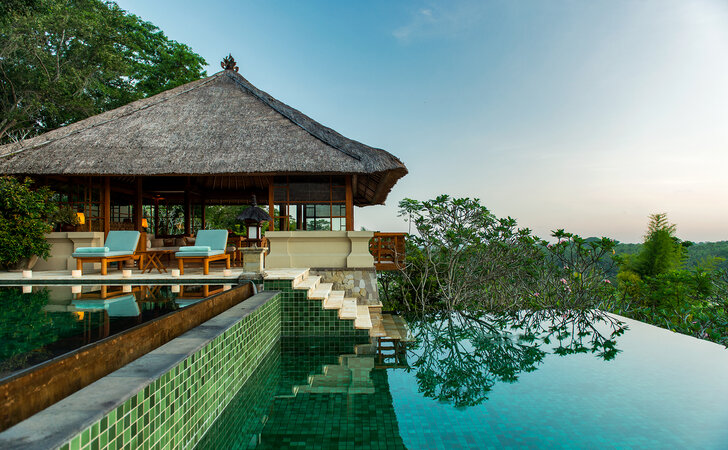
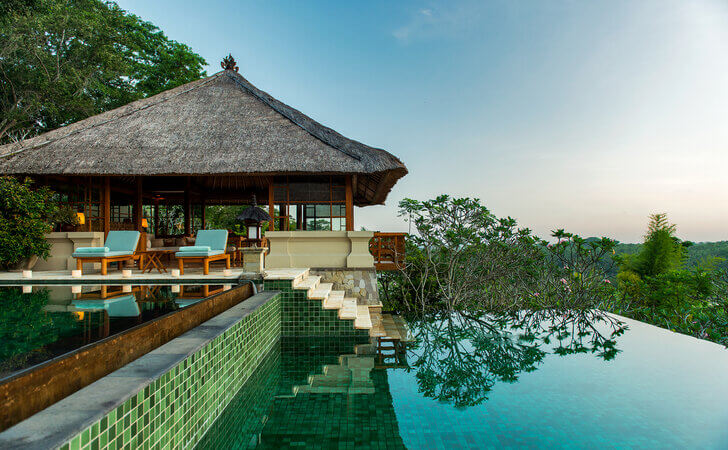
image optimization

diff --git a/index.html b/index.html
@@ -26,7 +26,7 @@
           <button class="search__button"><img src="img/svg/search.svg" alt="icon: search" class="search__icon"></button>
         </form>
         <a href="#" class="user navbar__user navbar__user_mobile_hidden">
-          <img src="img/user-avatar.jpeg" alt="Avatar: Nathan" class="user__avatar">
+          <img src="img/user-avatar.jpg" alt="Avatar: Nathan" class="user__avatar">
           <span class="user__name">Nathan</span>
         </a>
         <!-- /.user -->
@@ -187,7 +187,7 @@
       <h2 class="packages-title">Other Packages</h2>
       <div class="packages-wrapper">
         <div class="trip-card trip-card__active">
-          <img src="img/other-package/blue-havan.jpeg" alt="Hotel: Blue Haven"
+          <img src="img/other-package/blue-havan.jpg" alt="Hotel: Blue Haven"
             class="trip-card__image trip-card__image-active">
           <div class="trip-card__block trip-card__block-active">
             <div class="trip-card__info">
@@ -231,7 +231,7 @@
           <!-- /.trip-card__block -->
         </div>
         <div class="trip-card">
-          <img src="img/other-package/belle-marie.jpeg" alt="Hotel: Belle-Marie" class="trip-card__image">
+          <img src="img/other-package/belle-marie.jpg" alt="Hotel: Belle-Marie" class="trip-card__image">
           <div class="trip-card__block">
             <div class="trip-card__info">
               <h3 class="trip-card__title">LUX* Belle Mare</h3>
@@ -263,7 +263,7 @@
         </div>
         <!-- /.trip-card -->
         <div class="trip-card">
-          <img src="img/other-package/white-palace.jpeg" alt="Hotel: White Palace" class="trip-card__image">
+          <img src="img/other-package/white-palace.jpg" alt="Hotel: White Palace" class="trip-card__image">
           <div class="trip-card__block">
             <div class="trip-card__info">
               <h3 class="trip-card__title">White Palace</h3>
@@ -295,7 +295,7 @@
         </div>
         <!-- /.trip-card -->
         <div class="trip-card">
-          <img src="img/other-package/luxure-palace.jpeg" alt="Hotel: Luxury Place" class="trip-card__image">
+          <img src="img/other-package/luxure-palace.jpg" alt="Hotel: Luxury Place" class="trip-card__image">
           <div class="trip-card__block">
             <div class="trip-card__info">
               <h3 class="trip-card__title">Luxury Place</h3>
@@ -327,7 +327,7 @@
         </div>
         <!-- /.trip-card -->
         <div class="trip-card">
-          <img src="img/other-package/five-stars.jpeg" alt="Hotel: Hotel Five Star" class="trip-card__image">
+          <img src="img/other-package/five-stars.jpg" alt="Hotel: Hotel Five Star" class="trip-card__image">
           <div class="trip-card__block">
             <div class="trip-card__info">
               <h3 class="trip-card__title">Hotel Five Star</h3>
@@ -364,7 +364,7 @@
     <!-- /.container -->
   </section>
   <!-- /.packages -->
-  <section class="newsletter" data-parallax="scroll" data-image-src="img/newsletter-bg.jpeg">
+  <section class="newsletter" data-parallax="scroll" data-image-src="img/newsletter-bg.jpg">
     <div class="newsletter-wrapper">
       <h2 class="newsletter-title">
         subscribe to our
@@ -389,7 +389,7 @@
           <div class="swiper-slide">
             <div class="reviews-slider__item">
               <div class="reviews-slider__profile">
-                <img src="img/reviews/avatar-1.jpeg" alt="Photo: Megan Fox" class="reviews-slider__avatar">
+                <img src="img/reviews/avatar-1.jpg" alt="Photo: Megan Fox" class="reviews-slider__avatar">
                 <h3 class="reviews-slider__username">Megan Fox</h3>
                 <span class="reviews-slider__date">Stayed 18 Nov, 2019</span>
                 <div class="reviews-slider__rating">
@@ -417,7 +417,7 @@
           <div class="swiper-slide">
             <div class="reviews-slider__item">
               <div class="reviews-slider__profile">
-                <img src="img/reviews/avatar-2.jpeg" alt="Photo: Kate Lockley" class="reviews-slider__avatar">
+                <img src="img/reviews/avatar-2.jpg" alt="Photo: Kate Lockley" class="reviews-slider__avatar">
                 <h3 class="reviews-slider__username">Kate Lockley</h3>
                 <span class="reviews-slider__date">Stayed 12 Sep, 2019</span>
                 <div class="reviews-slider__rating">
@@ -445,7 +445,7 @@
           <div class="swiper-slide">
             <div class="reviews-slider__item">
               <div class="reviews-slider__profile">
-                <img src="img/reviews/avatar-3.jpeg" alt="Photo: Akina Kawauchi" class="reviews-slider__avatar">
+                <img src="img/reviews/avatar-3.jpg" alt="Photo: Akina Kawauchi" class="reviews-slider__avatar">
                 <h3 class="reviews-slider__username">Akina Kawauchi</h3>
                 <span class="reviews-slider__date">Stayed 28 Jun, 2019</span>
                 <div class="reviews-slider__rating">
@@ -471,7 +471,7 @@
           <div class="swiper-slide">
             <div class="reviews-slider__item">
               <div class="reviews-slider__profile">
-                <img src="img/reviews/avatar-4.jpeg" alt="Photo: Joe Bronze" class="reviews-slider__avatar">
+                <img src="img/reviews/avatar-4.jpg" alt="Photo: Joe Bronze" class="reviews-slider__avatar">
                 <h3 class="reviews-slider__username">Joe Bronze</h3>
                 <span class="reviews-slider__date">Stayed 03 Feb, 2019</span>
                 <div class="reviews-slider__rating">
@@ -498,7 +498,7 @@
           <div class="swiper-slide">
             <div class="reviews-slider__item">
               <div class="reviews-slider__profile">
-                <img src="img/reviews/avatar-5.jpeg" alt="Photo: Maggie Lichter" class="reviews-slider__avatar">
+                <img src="img/reviews/avatar-5.jpg" alt="Photo: Maggie Lichter" class="reviews-slider__avatar">
                 <h3 class="reviews-slider__username">Maggie Lichter</h3>
                 <span class="reviews-slider__date">Stayed 15 Dec, 2018</span>
                 <div class="reviews-slider__rating">
@@ -538,7 +538,7 @@
       <h2 class="activities__title">Other Activities</h2>
       <div class="activities-wrapper">
         <div class="card" data-aos="fade-up" data-aos-duration="300">
-          <img src="img/activities/activities-1.jpeg" alt="The curious corner
+          <img src="img/activities/activities-1.jpg" alt="The curious corner
             of chamarel" class="card__image">
           <h3 class="card__title">The curious corner
             of&nbsp;chamarel</h3>
@@ -548,7 +548,7 @@
         </div>
         <!-- /.card -->
         <div class="card" data-aos="fade-up" data-aos-duration="500">
-          <img src="img/activities/activities-2.jpeg" alt="Gymkhana club golf
+          <img src="img/activities/activities-2.jpg" alt="Gymkhana club golf
             course" class="card__image">
           <h3 class="card__title">Gymkhana club golf
             course</h3>
@@ -558,7 +558,7 @@
         </div>
         <!-- /.card -->
         <div class="card" data-aos="fade-up" data-aos-duration="700">
-          <img src="img/activities/activities-3.jpeg" alt="Tamarind falls hiking
+          <img src="img/activities/activities-3.jpg" alt="Tamarind falls hiking
             trip - full day" class="card__image">
           <h3 class="card__title">Tamarind falls hiking
             trip&nbsp;- full day</h3>
@@ -568,7 +568,7 @@
         </div>
         <!-- /.card -->
         <div class="card" data-aos="fade-up" data-aos-duration="900">
-          <img src="img/activities/activities-4.jpeg" alt="The blue marine discovery
+          <img src="img/activities/activities-4.jpg" alt="The blue marine discovery
             quest" class="card__image">
           <h3 class="card__title">The blue marine discovery
             quest</h3>
@@ -690,7 +690,7 @@
             <li class="footer__item"><a href="#" class="footer__payment-link">Cancellation policy</a></li>
           </ul>
           <div class="footer__card">
-            <img src="img/svg/payment.svg" alt="images: cards payment" class="footer__card__image">
+            <img src="img/payment.jpg" alt="images: cards payment" class="footer__card__image">
           </div>
           <!-- /.footer__card -->
         </div>

diff --git a/css/style.css b/css/style.css
@@ -1086,7 +1086,7 @@ template {
 }
 
 .trip-card__title {
-  margin-bottom: 23px;
+  margin-bottom: 25px;
   font-weight: 700;
   font-size: 18px;
 }
@@ -1868,10 +1868,10 @@ template {
     row-gap: 15px;
   }
   .trip-card__image {
-    height: 225px;
+    max-height: 225px;
   }
   .trip-card__image-active {
-    height: 100%;
+    max-height: 100%;
   }
   .trip-card__active {
     -ms-grid-rows: (450px)[2];
@@ -1882,7 +1882,7 @@ template {
     padding-bottom: 20px;
   }
   .trip-card__title {
-    margin-bottom: 18px;
+    margin-bottom: 20px;
   }
   .trip-card__about {
     margin-bottom: 24px;
@@ -1982,8 +1982,14 @@ template {
     padding-bottom: 60px;
   }
   .packages-wrapper {
-    -ms-grid-columns: (340px)[auto-fit];
-        grid-template-columns: repeat(auto-fit, 340px);
+    -ms-grid-columns: (48%)[auto-fit];
+        grid-template-columns: repeat(auto-fit, 48%);
+    -ms-grid-rows: (465px)[2];
+        grid-template-rows: repeat(2, 465px);
+  }
+  .trip-card__active {
+    -ms-grid-rows: (465px)[2];
+        grid-template-rows: repeat(2, 465px);
   }
   .trip-card__about {
     margin-bottom: 31px;

diff --git a/sass/_media.sass b/sass/_media.sass
@@ -17,9 +17,9 @@
       row-gap: 15px
   .trip-card
     &__image
-      height: 225px
+      max-height: 225px
       &-active
-        height: 100%
+        max-height: 100%
     &__active
       grid-template-rows: repeat(2, 450px)
     &__block,
@@ -27,7 +27,7 @@
       padding-top: 20px
       padding-bottom: 20px
     &__title
-      margin-bottom: 18px
+      margin-bottom: 20px
     &__about
       margin-bottom: 24px
     &__room
@@ -96,8 +96,11 @@
   .packages
     padding-bottom: 60px
     &-wrapper
-      grid-template-columns: repeat(auto-fit, 340px)
+      grid-template-columns: repeat(auto-fit, 48%)
+      grid-template-rows: repeat(2, 465px)
   .trip-card
+    &__active
+      grid-template-rows: repeat(2, 465px)
     &__about
       margin-bottom: 31px
     &__room

diff --git a/sass/blocks/_other-packages.sass b/sass/blocks/_other-packages.sass
@@ -62,7 +62,7 @@
   &-stars
     margin-bottom: 5px
   &__title
-    margin-bottom: 23px
+    margin-bottom: 25px
     font-weight: 700
     font-size: 18px
     &-active
